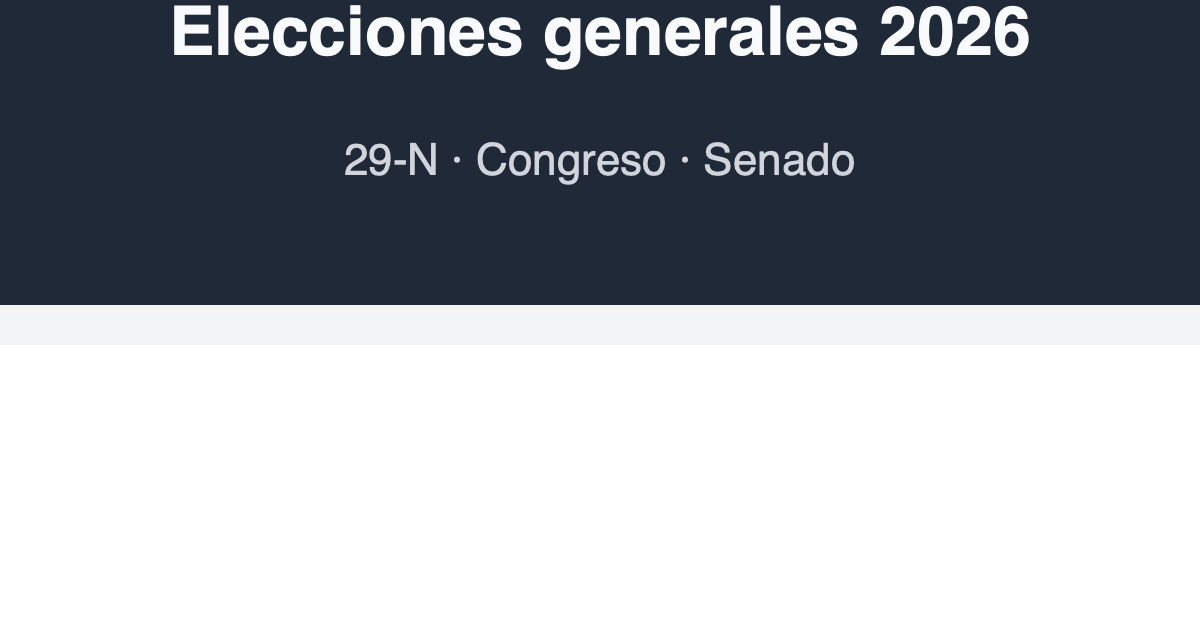
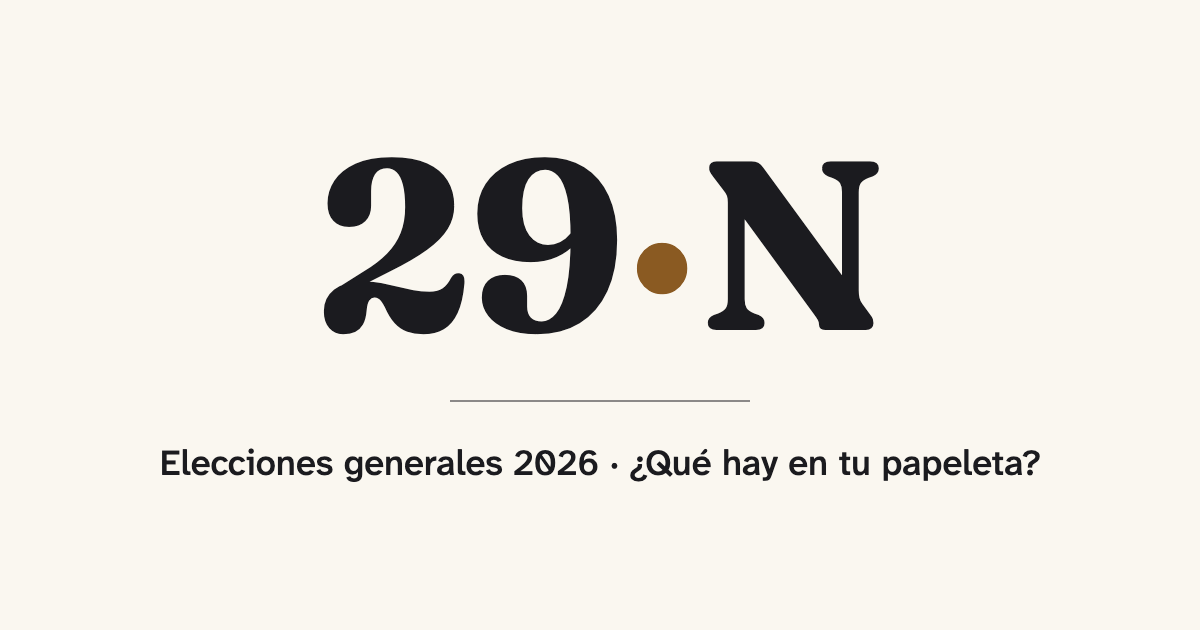
chore(web): theme-color, og and twitter meta, new og image

diff --git a/web/index.html b/web/index.html
@@ -4,6 +4,17 @@
     <meta charset="UTF-8" />
     <link rel="icon" type="image/svg+xml" href="/favicon.svg" />
     <meta name="viewport" content="width=device-width, initial-scale=1.0" />
+    <meta
+      name="theme-color"
+      content="#FAF7F0"
+      media="(prefers-color-scheme: light)"
+    />
+    <meta
+      name="theme-color"
+      content="#16151A"
+      media="(prefers-color-scheme: dark)"
+    />
+    <meta name="color-scheme" content="light dark" />
     <script>
       (function () {
         var stored = localStorage.getItem("eg26.theme");
@@ -20,6 +31,13 @@
       content="Consulta las candidaturas al Congreso y al Senado del 29-N. Web no oficial."
     />
     <meta property="og:type" content="website" />
+    <meta property="og:site_name" content="Elecciones generales 2026" />
+    <meta
+      property="og:url"
+      content="https://alhuelamo.com/elecciones-generales-2026/"
+    />
+    <meta property="og:locale" content="es_ES" />
+    <meta property="og:locale:alternate" content="ca_ES" />
     <meta property="og:title" content="Elecciones generales 2026" />
     <meta
       property="og:description"
@@ -32,6 +50,11 @@
     <meta property="og:image:width" content="1200" />
     <meta property="og:image:height" content="630" />
     <meta name="twitter:card" content="summary_large_image" />
+    <meta name="twitter:title" content="Elecciones generales 2026" />
+    <meta
+      name="twitter:description"
+      content="Encuentra tu municipio y consulta las candidaturas."
+    />
   </head>
   <body>
     <div id="root"></div>
